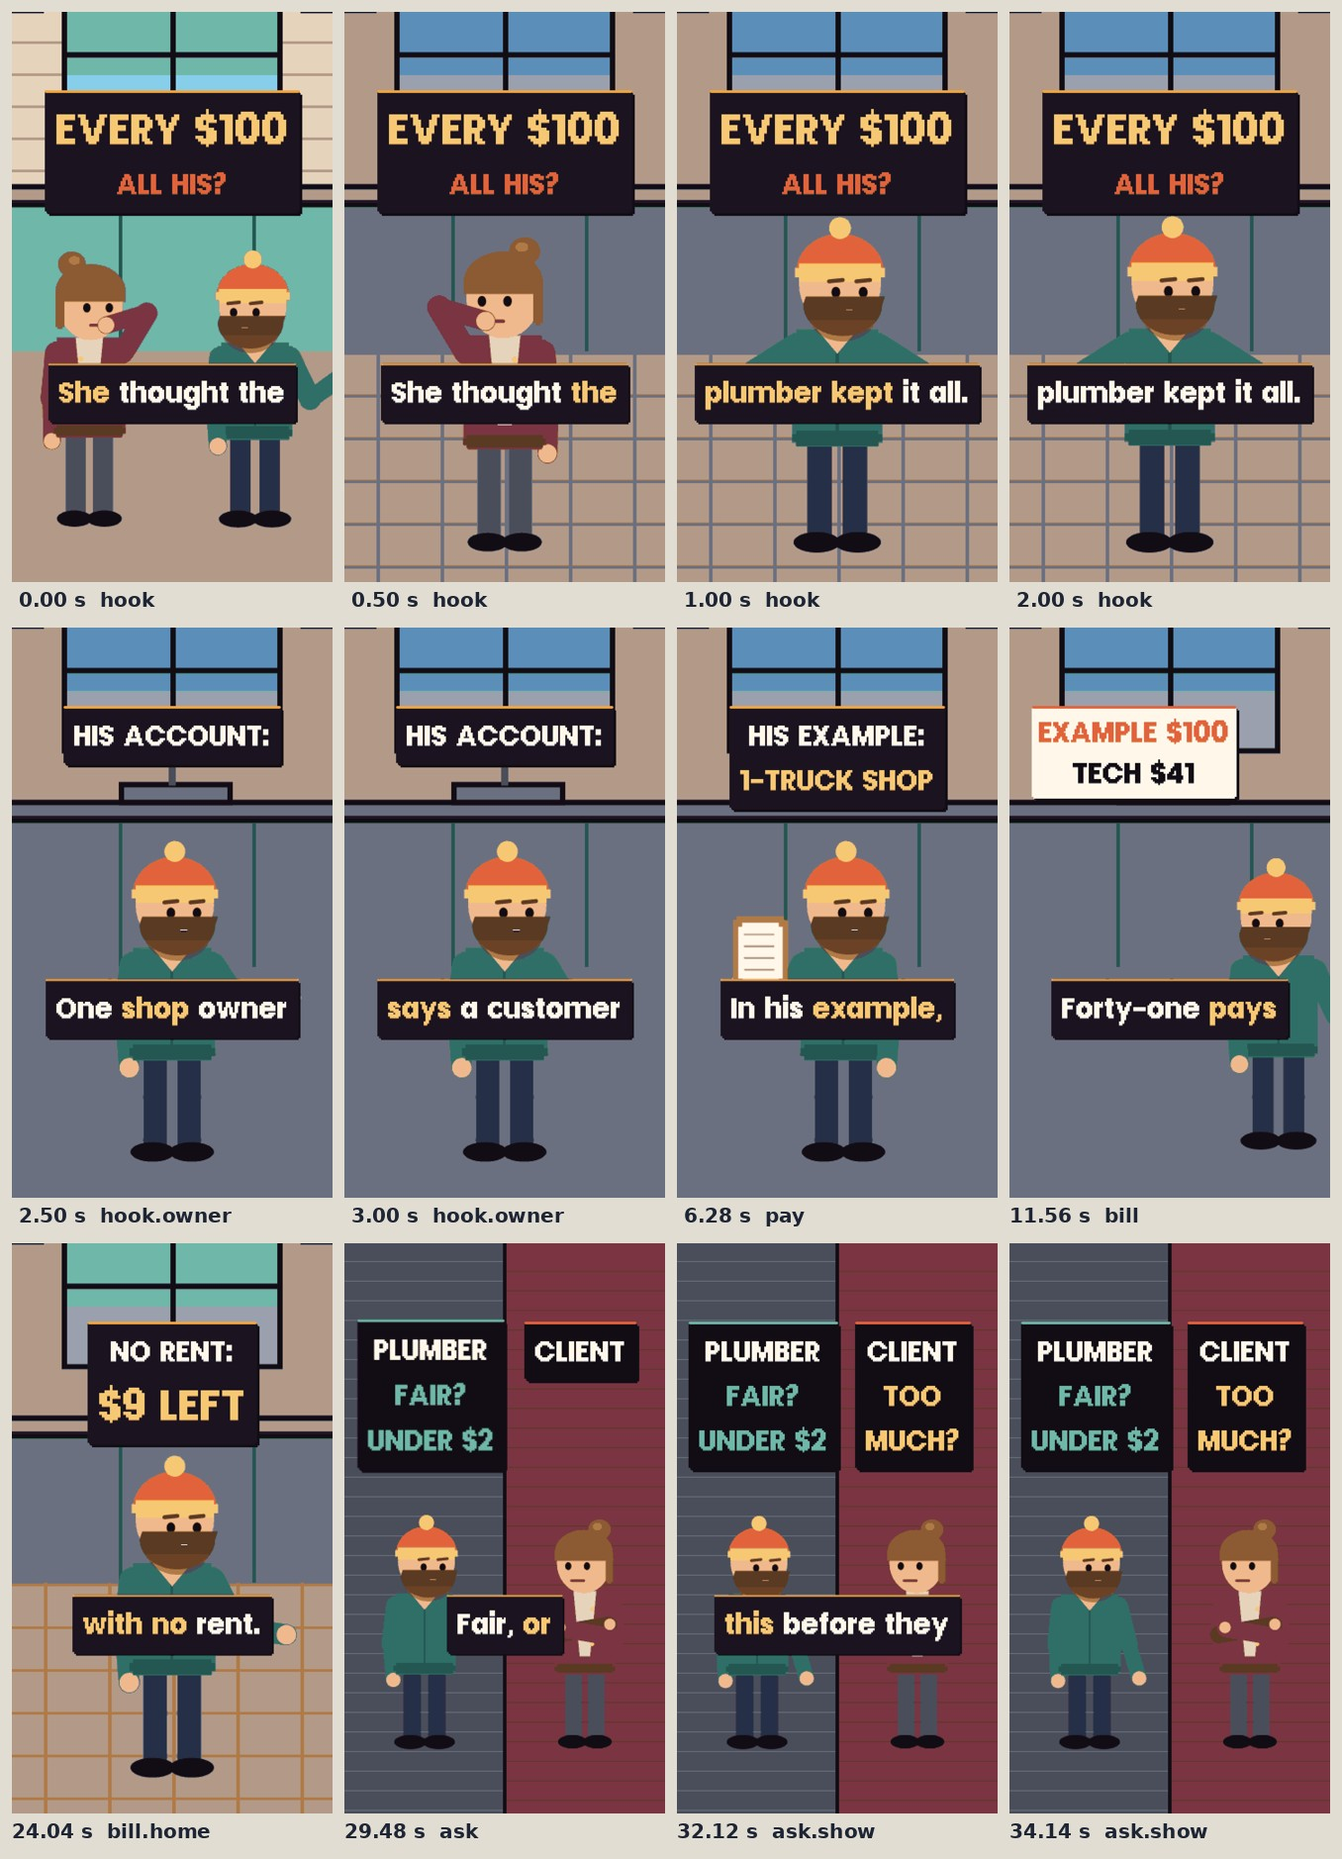
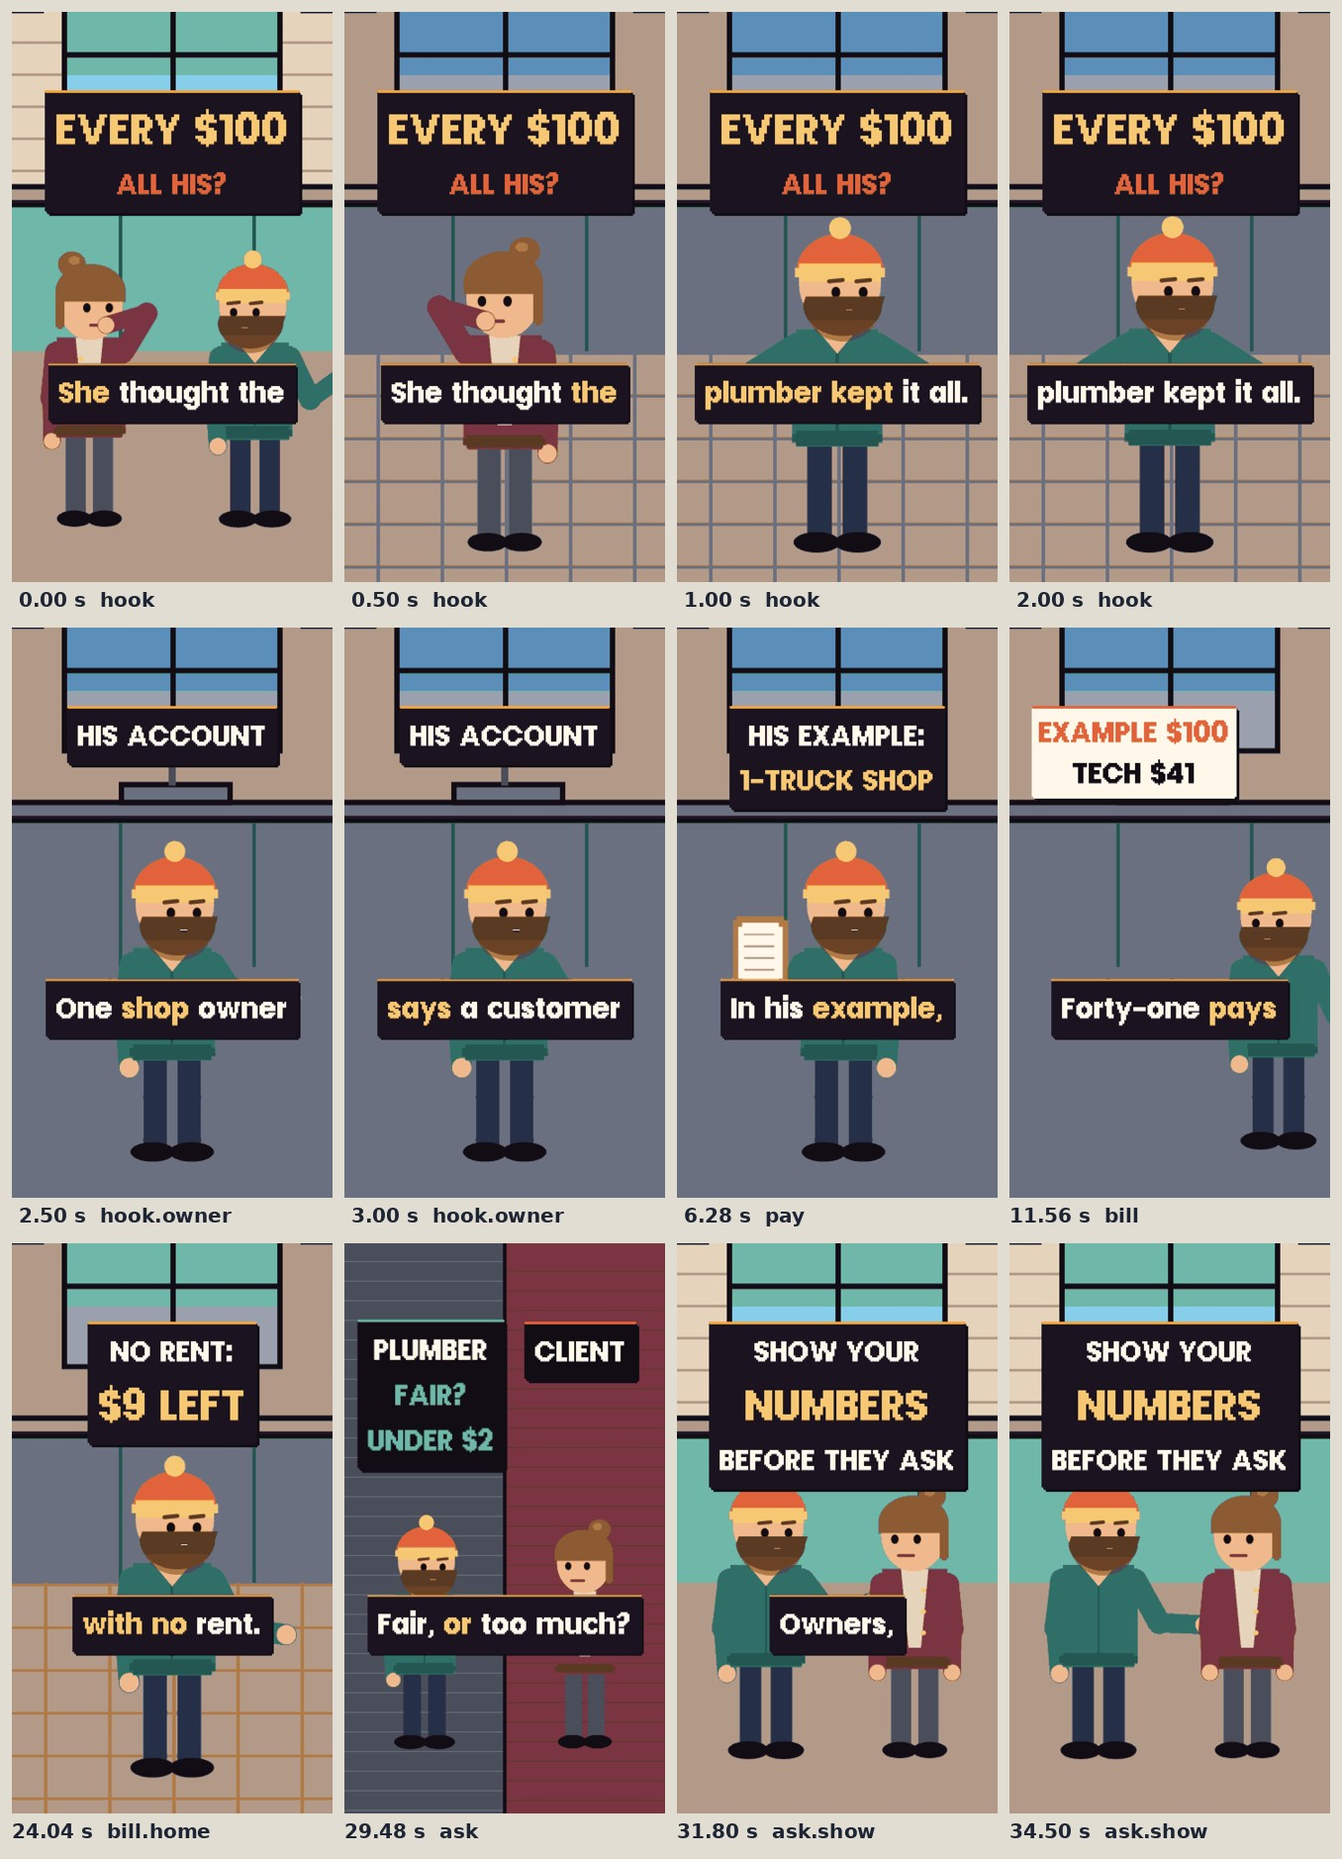
studio: where-100-goes (v4 invoice) all four gates PASS on render 8; case bank row made; learnings
Claude-Session: https://claude.ai/code/session_01XMn4eGSJdCQ9VjRvVrDSRQ

Changed region(s): [[0.2478, 0.6486, 0.9912, 0.9883], [0.3097, 0.3706, 0.4646, 0.4015], [0.0619, 0.3706, 0.2168, 0.4015]]

diff --git a/video/studio/videos/2026-12-01-where-100-goes/03_cues/cues.js b/video/studio/videos/2026-12-01-where-100-goes/03_cues/cues.js
@@ -1,1 +1,1 @@
-window.CUES = {"schema": "pnf.studio.cues.v1", "source": "whisper medium.en int8, re-spelled from script.md", "music": {"id": "rooms", "level": 0.16, "tune": "bounce"}, "duration": 34.44, "cues": [{"id": "hook", "level": 0, "quote": "She thought the plumber", "sfx": "pop", "shift": 0.0, "pin": null, "text": "Frame 0, close and settled, a kitchen: the homeowner left, on the phone, cross, the plumber right with the clipboard (she was at work and phoned). Up top, big: EVERY $100 in gold, under it in red: ALL HIS?. At 0.5 s a plain cut to her alone, close, on the phone (the first change). On \"kept\" a plain cut to the plumber alone, close, shrugging, the same plate.", "t": 0.0, "word": 0, "end": 5.68}, {"id": "hook.owner", "level": 1, "quote": "One shop owner says", "sfx": "blip", "shift": 0.0, "pin": null, "text": "A plain cut to the plumber, close, talking. The plate: HIS ACCOUNT:. On \"held\" a plain cut to the homeowner on the phone, cross, and a new plate lands: SHE PUT THE / JOB ON HOLD, the last row red.", "t": 2.2, "word": 7, "end": 5.68}, {"id": "pay", "level": 0, "quote": "In his example,", "sfx": "stamp", "shift": 0.0, "pin": null, "text": "A plain cut to the plumber, close, with the clipboard. The plate: HIS EXAMPLE: / 1-TRUCK SHOP. On \"nine\" it gives way to a stamp: OF EVERY $100 / $9 LEFT, the last row big and gold.", "payoff": true, "t": 5.68, "word": 19, "end": 10.96}, {"id": "bill", "level": 0, "quote": "Forty-one pays the tech", "sfx": "blip", "shift": 0.0, "pin": null, "text": "His example invoice on the left over the dimmed kitchen, the plumber close on the right holding the clipboard (she is not in it): a cream card headed EXAMPLE $100 in red, one row landing under it as each is said: TECH $41, then on \"Sixteen\" OFFICE PAY $16, on \"eight\" TRUCK $8, on \"Twenty\" OVERHEAD $20, on \"Six\" INS + HOME $6; then the plumber gestures at it and a gold band steps down the five rows, one at a time, until the cut.", "t": 10.96, "word": 32, "end": 25.36}, {"id": "bill.home", "level": 1, "quote": "And that's with no", "sfx": "whoosh", "shift": 0.0, "pin": null, "text": "A plain cut to the plumber in the kitchen, close, talking. The plate: NO RENT: / $9 LEFT, the last row big and gold.", "t": 23.44, "word": 59, "end": 25.36}, {"id": "twist", "level": 0, "quote": "Pay for a shop", "sfx": "stamp", "shift": 0.0, "pin": null, "text": "A plain cut to the plumber, close. The plate: $9 LEFT, struck through in red as he says \"shop\"; on \"two\" he shrugs and it gives way to a stamp: WITH A SHOP: / UNDER $2, the last row big and red.", "t": 25.36, "word": 64, "end": 28.88}, {"id": "ask", "level": 0, "quote": "Fair, or still too much?", "sfx": "blip", "shift": 0.0, "pin": null, "text": "The frame splits, one person a side: the plumber on a slate left, the homeowner on wine right, arms folded. Left plate: PLUMBER, then FAIR? / UNDER $2 under it. Right plate: CLIENT, then on \"too\" TOO / MUCH? under it.", "t": 28.88, "word": 75, "end": 34.44}, {"id": "ask.show", "level": 1, "quote": "Show customers this before", "sfx": "blip", "shift": 0.0, "pin": null, "text": "The plumber points down at the viewer; the homeowner keeps her arms folded. Both plates hold. Ends 1 s after the last word.", "t": 31.52, "word": 80, "end": 34.44}]};
+window.CUES = {"schema": "pnf.studio.cues.v1", "source": "whisper medium.en int8, re-spelled from script.md", "music": {"id": "rooms", "level": 0.16, "tune": "bounce"}, "duration": 34.8, "cues": [{"id": "hook", "level": 0, "quote": "She thought the plumber", "sfx": "pop", "shift": 0.0, "pin": null, "text": "Frame 0, close and settled, a kitchen: the homeowner left, on the phone, cross, the plumber right with the clipboard (she was at work and phoned). Up top, big: EVERY $100 in gold, under it in red: ALL HIS?. At 0.5 s a plain cut to her alone, close, on the phone (the first change). On \"kept\" a plain cut to the plumber alone, close, shrugging, the same plate.", "t": 0.0, "word": 0, "end": 5.68}, {"id": "hook.owner", "level": 1, "quote": "One shop owner says", "sfx": "blip", "shift": 0.0, "pin": null, "text": "A plain cut to the plumber, close, talking. The plate: HIS ACCOUNT. On \"held\" a plain cut to the homeowner on the phone, cross, and a new plate lands: SHE PUT THE / JOB ON HOLD, the last row red.", "t": 2.2, "word": 7, "end": 5.68}, {"id": "pay", "level": 0, "quote": "In his example,", "sfx": "stamp", "shift": 0.0, "pin": null, "text": "A plain cut to the plumber, close, with the clipboard. The plate: HIS EXAMPLE: / 1-TRUCK SHOP. On \"nine\" it gives way to a stamp: OF EVERY $100 / $9 LEFT, the last row big and gold.", "payoff": true, "t": 5.68, "word": 19, "end": 10.96}, {"id": "bill", "level": 0, "quote": "Forty-one pays the tech", "sfx": "blip", "shift": 0.0, "pin": null, "text": "His example invoice on the left over the dimmed kitchen, the plumber close on the right holding the clipboard (she is not in it): a cream card headed EXAMPLE $100 in red, one row landing under it as each is said: TECH $41, then on \"Sixteen\" OFFICE PAY $16, on \"eight\" TRUCK $8, on \"Twenty\" OVERHEAD $20, on \"Six\" INS + HOME $6; then the plumber gestures at it and a gold band steps down the five rows, one at a time, until the cut.", "t": 10.96, "word": 32, "end": 25.34}, {"id": "bill.home", "level": 1, "quote": "And that's with no", "sfx": "whoosh", "shift": 0.0, "pin": null, "text": "A plain cut to the plumber in the kitchen, close, talking. The plate: NO RENT: / $9 LEFT, the last row big and gold.", "t": 23.44, "word": 59, "end": 25.34}, {"id": "twist", "level": 0, "quote": "Pay for a shop", "sfx": "stamp", "shift": 0.0, "pin": null, "text": "A plain cut to the plumber, close. The plate: $9 LEFT, struck through in red as he says \"shop\"; on \"two\" he shrugs and it gives way to a stamp: WITH A SHOP: / UNDER $2, the last row big and red, and the shot pushes in slowly on him to the cut.", "t": 25.34, "word": 64, "end": 28.88}, {"id": "ask", "level": 0, "quote": "Fair, or too much?", "sfx": "blip", "shift": 0.0, "pin": null, "text": "The frame splits, one person a side: the plumber on a slate left, the homeowner on wine right, arms folded. Left plate: PLUMBER, then FAIR? / UNDER $2 under it. Right plate: CLIENT, then on \"too\" TOO / MUCH? under it.", "t": 28.88, "word": 75, "end": 34.8}, {"id": "ask.show", "level": 1, "quote": "Owners, show this split", "sfx": "stamp", "shift": 0.0, "pin": null, "text": "A plain cut back to the kitchen, both of them: the plumber left holds the clipboard out to the customer right, who stands and listens; he talks. The card lands: SHOW YOUR / NUMBERS / BEFORE THEY ASK, the middle row big and gold. Ends 1 s after the last word.", "t": 31.2, "word": 79, "end": 34.8}]};

diff --git a/video/studio/videos/2026-12-01-where-100-goes/02_transcript/mouth.js b/video/studio/videos/2026-12-01-where-100-goes/02_transcript/mouth.js
@@ -1,1 +1,1 @@
[2 lines of base64/hex data omitted]

diff --git a/video/studio/videos/2026-12-01-where-100-goes/04_scene/scene.js b/video/studio/videos/2026-12-01-where-100-goes/04_scene/scene.js
@@ -107,7 +107,7 @@ const holdUp = (k, T) => {
         k.cut(t0);
         kitchen(k, 0.3, 2);
         plumber(k, 540, 2.2, 'talk', {feet: 1780, talk: true});
-        plate(k, [['HIS ACCOUNT:', 132, CREAM]], 264);
+        plate(k, [['HIS ACCOUNT', 132, CREAM]], 264);   /* viewer r1 note: a lone colon looked unfinished */
       } else {
         k.cut(tHeld);
         kitchen(k, 0.3, 2);
@@ -183,7 +183,8 @@ Object.assign(window.SCENE.sections, {
       const P = px(k);
       P(0, 0, 180, 640, '#4A4E5A'); P(180, 0, 180, 640, WINE); P(178, 0, 4, 640, INK);
       for (let y = 20; y < 640; y += 22) { P(0, y, 178, 1, '#6B7080'); P(182, y + 11, 178, 1, '#5A2432'); }
-      plumber(k, 270, 1.6, T >= tSend ? 'point' : 'talk', {feet: 1690, at: [540, 1900], talk: false});
+      if (T >= tSend) return showIt(k, T, tSend);
+      plumber(k, 270, 1.6, 'talk', {feet: 1690, talk: false});
       owner(k, 810, 1.75, 'refuse', 'cross', {feet: 1690, face: -1});
       /* facts r0: each side a question, labels with no colons (never a quote); the shop condition stays on the left */
       if (T < t0 + 0.3) plate(k, [['PLUMBER', 132, CREAM], ['FAIR?', 132, TEAL]], 264, {cx: 290, bg: INK, rule: TEAL});
@@ -193,3 +194,14 @@ Object.assign(window.SCENE.sections, {
       return {host: false};
     },
 });
+
+/* ---- ask.show (inside ask; viewer r1: the owner's move needs its own card and beat, the last thing heard and seen): ---- */
+/* a plain cut to the kitchen, the plumber holding the clipboard out to the customer, who listens; the card lands ---- */
+const showIt = (k, T, t0) => {
+  k.cut(t0);
+  kitchen(k, 0.15, 2);
+  plumber(k, 300, 2.0, 'talk', {feet: 1720, face: 1, talk: false});
+  owner(k, 800, 2.1, 'stand', 'calm', {feet: 1720, face: -1});
+  stampPlate(k, [['SHOW YOUR', 132, CREAM], ['NUMBERS', 198, GOLD], ['BEFORE THEY ASK', 132, CREAM]], 264, t0 + 0.1, {drop: 0.06, freeze: 4});
+  return {host: false};
+};

diff --git a/video/studio/LEARNINGS.md b/video/studio/LEARNINGS.md
@@ -136,3 +136,9 @@ The studio learns in three loops (Todd, Oct 28, 2026, 3:43 pm: "make this video 
 - 2026-11-10 evening recorder: 2026-11-30-turned-down-8k (v4 verdict, 30.5 s) is the first Lead: IG 1,411 and YT 1.6K at 28 h, TT watch 51% of runtime; every old-format lesson read the same night held 19 to 30%. Still 0 IG sends in 1,066 reached and 18.2% watched in full. One post, finding only (freeze to Nov 23).
 - 2026-11-10 evening recorder: `anim.py missed` still checks the lunch and end-of-day slots from config posting "slots" and ignores "perDayFrom" (one a day, evening only, from Nov 10), so it reported the retired end-of-day slot MISSED; `anim.py missed evening` shows the evening post in its window. Tool finding for after the freeze; no code changed.
 - 2026-11-10 21 box queue: 7 jobs plus trial twins (5 pulse-feeds, one feed a job; 2 pulse-night-extract of 8 thread pages each from the Nov 9 feed answers not yet read, calls and money first: who answers calls on the job, SMS notices, T&M change order invoices). Skipped: question page draft (makePaused run, kept to story finding), leads (story lane closed since Nov 8), lesson pre-checks (makePaused), backtest (no new Opus verdicts), permit tags (sent Nov 8), captions variants (every waiting lesson has them). Box alive 03:03 UTC, stop local off. No rung moves.
+- 2026-11-11 evening make (cloud, started 7:43 pm): first v4 invoice, 2026-12-01-where-100-goes (PHC Pros column, Mar 1, 2022), all four gates PASS on render 8 of 8: code QA, facts r2 (11 numbers, 0 mismatches), render critic r2 (0 faults), viewer r2 (same idea, would send). Faults on the way, for the next invoice: facts r0 failed a plate that merged two source lines under one name (INSURANCE $6 for insurance 2 plus home office 4), "$100 BILL" reading as the customer's real price (say EVERY $100 or EXAMPLE $100), a story person reacting to the example budget (the source's customer heard national figures, not this budget), speaker-style colons on the closing split, and "FEES" for overhead; viewer r0 and r1 failed the owner's move said once at the end with no card (a stranger took away "he isn't pocketing it"): the move needs its own spoken line and card as the last beat.
+- 2026-11-11 evening make: the closing question that splits the room and the owner's rule compete for the last 5 s of a 35 s v4 lesson; here the rule won the last beat and the spoken send line moved to the captions. Finding only (no rule change): the send line level-up is not read on this lesson.
+- 2026-11-11 evening make, tools: this cloud box's python3 on PATH is 3.11 (no 3.12 f-strings, Pillow and cryptography built for other versions), so check_repo failed on the environment, not the repo; /usr/bin/python3 (3.13) plus `bash tools/setup_cloud.sh`, scipy and playwright 1.63.0 (PLAYWRIGHT_BROWSERS_PATH=/opt/pw-browsers) ran every step. The session's network reached no outside page (thecooldown.com, phcppros.com, dailydot.com all refused), so the source was read by box fetch jobs and checked by search.
+- 2026-11-11 evening make: `anim.py stills` grabs only cue starts; a still sheet at chosen times (open_stage and frame from a scratch script) found the empty bill frame, the cut-off plumber and a frozen shrug before a render did.
+- 2026-11-11 box: facts extract where-100-goes-facts r1 to r3 (workhorse and trial copied the same sentences word for word; checked against search): clean. Retell pre-check on script r2 (both models): same message, lost nowhere: clean.
+- 2026-11-11 21 box queue: 6 jobs plus trial twins (5 pulse-feeds, one feed a job; 1 pulse-night-extract of 8 thread pages from the Nov 10 feed answers not yet read: late fees, the most annoying weekly problem, AI in the business, matching systems, anode rods, faucet repair, sewer camera, unlabeled condensers), plus earlier this run 3 facts fetches and 1 retell. Skipped: question page draft (make run kept to the lesson), leads (story lane closed), backtest (no new Opus pairs of a box job kind), permit tags (sent Nov 8), captions variants (no other lesson waiting). Box alive, stop local off. No rung moves.

diff --git a/video/studio/videos/2026-12-01-where-100-goes/01_voice/brief.md b/video/studio/videos/2026-12-01-where-100-goes/01_voice/brief.md
@@ -8,7 +8,7 @@ Planned Nov 11, 2026 by the make run (9:33 pm task, started early on Todd's word
 - **Audience:** anyone who has looked at a plumber's bill and thought it all goes in his pocket; every tech, since 41 of the 100 is their pay; every owner who has heard it said.
 - **The one idea:** A customer thought the whole bill went in the plumber's pocket; in one plumbing owner's example about $9 of every $100 is left, and under $2 once the shop space is paid: say where the money goes before they ask.
 - **Pull:** conflict yes (a customer who held up the job over the price, and the owner); dollars yes ($100 split line by line to about $9, then under $2); send yes (the customer or relative who says it is all profit). Breadth: a homeowner stops for the reveal; a tech stops because 41 of the 100 is their pay.
-- **Send:** a viewer sends it to whoever says it all goes in the plumber's pocket, because the bill on screen answers them line by line; the last spoken line names that person: "whoever says it's all profit".
+- **Send:** a viewer sends it to whoever says it all goes in the plumber's pocket, because the bill on screen answers them line by line. After viewer r1 (the owner's move was not what a stranger took away) the last spoken line is the owner's move, "Owners, show this split before they ask.", with its own card; the send line ("Send this to whoever calls it all profit.") rides in the Instagram, TikTok and Facebook captions. So the send line level-up is not read on this lesson (spoken); the other three are.
 - **Shape:** the accusation on frame 0, the answer ($9) by 40%, the bill built line by line, the twist (the shop space), the question that splits the room.
 - **Music:** bounce (the lesson before, members-go-first, used sunny).
 - **Voice:** Todd's clone (`_shared/voice.md`).

diff --git a/video/studio/videos/2026-12-01-where-100-goes/03_cues/cues.md b/video/studio/videos/2026-12-01-where-100-goes/03_cues/cues.md
@@ -8,7 +8,7 @@ was at work and phoned). Up top, big: EVERY $100 in gold, under it in red: ALL H
 close, on the phone (the first change). On "kept" a plain cut to the plumber alone, close, shrugging, the same plate.
 
 ## hook.owner "One shop owner says" [sfx: blip]
-A plain cut to the plumber, close, talking. The plate: HIS ACCOUNT:. On "held" a plain cut to the homeowner on the phone,
+A plain cut to the plumber, close, talking. The plate: HIS ACCOUNT. On "held" a plain cut to the homeowner on the phone,
 cross, and a new plate lands: SHE PUT THE / JOB ON HOLD, the last row red.
 
 ## pay "In his example," [payoff] [sfx: stamp]
@@ -28,9 +28,11 @@ A plain cut to the plumber in the kitchen, close, talking. The plate: NO RENT: /
 A plain cut to the plumber, close. The plate: $9 LEFT, struck through in red as he says "shop"; on "two" he shrugs and it
 gives way to a stamp: WITH A SHOP: / UNDER $2, the last row big and red, and the shot pushes in slowly on him to the cut.
 
-## ask "Fair, or still too much?" [sfx: blip]
+## ask "Fair, or too much?" [sfx: blip]
 The frame splits, one person a side: the plumber on a slate left, the homeowner on wine right, arms folded. Left plate:
 PLUMBER, then FAIR? / UNDER $2 under it. Right plate: CLIENT, then on "too" TOO / MUCH? under it.
 
-## ask.show "Show customers this before" [sfx: blip]
-The plumber points down at the viewer; the homeowner keeps her arms folded. Both plates hold. Ends 1 s after the last word.
+## ask.show "Owners, show this split" [sfx: stamp]
+A plain cut back to the kitchen, both of them: the plumber left, one hand out to the customer right, who stands and
+listens. The card lands: SHOW YOUR / NUMBERS / BEFORE THEY ASK, the middle row big and gold. Ends 1 s after
+the last word.

diff --git a/video/studio/research/FORMULA.md b/video/studio/research/FORMULA.md
@@ -16,6 +16,9 @@
 | 2026-11-04-close-rate | core | none named (before formula.md) | 70 h, Nov 2 12:19 pm, list views (115, 89, 14, 37): under 300 everywhere, its last read | not read | hidden | hidden | hidden |
 | 2026-11-17-after-hours-robot | story | first story lesson (moment, then turn; compare FAILed, posted on Todd's word) | 8.5 h, Nov 6 8:16 pm, list views (IG 276, TT 213, FB 13, YT 47) | not read | hidden (YT 53.1% avg viewed) | hidden | hidden (TT 8 likes) |
 
+## v4 forecasts (the viewer gate's guess beside the 72 h numbers; make run, Nov 11 prompt)
+- 2026-12-01-where-100-goes (v4 invoice, 34.8 s, queued Nov 11): viewer forecast (viewer r2 PASS) stop 3, hold 4, finish 3, send 3; 72 h numbers: not posted yet.
+
 ## References
 (Each: platform, link, the counts on the page and the date, then what the first 3 s, the beats, the save moment and the
 length do, in our words.)

diff --git a/video/studio/research/STORIES.md b/video/studio/research/STORIES.md
@@ -16,7 +16,7 @@ lessons; one cluster lesson that flops is not a verdict. Ready target: 5 stories
 |---|---|---|---|
 | Nov 11 | A crew did a $6,000 job in under six hours and the customer offered half | verdict | research/VIRALITY-2026-11-briefs/01-six-hours-6k.md |
 | Nov 11 | One plumber quoted $3,100 to replace a water heater, a second fixed it for $150 | call | research/VIRALITY-2026-11-briefs/02-dead-or-150.md |
-| Nov 11 | Where $100 of a plumbing bill goes: about $9 left, about $2 after the shop | invoice | research/VIRALITY-2026-11-briefs/03-where-100-goes.md |
+| Nov 11 | Where $100 of a plumbing bill goes: about $9 left, about $2 after the shop (made Nov 11: 2026-12-01-where-100-goes, queued first) | invoice | research/VIRALITY-2026-11-briefs/03-where-100-goes.md |
 
 ## Ready (dossier written and verified; newest first)
 | Date | Story | Score | Dossier |
